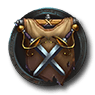
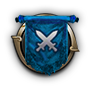
harvist and ui

diff --git a/mytank/src/com/trance/tranceview/screens/MapScreen.java b/mytank/src/com/trance/tranceview/screens/MapScreen.java
@@ -18,6 +18,7 @@ import com.badlogic.gdx.graphics.Texture;
 import com.badlogic.gdx.graphics.g2d.BitmapFont;
 import com.badlogic.gdx.graphics.g2d.SpriteBatch;
 import com.badlogic.gdx.graphics.glutils.ShapeRenderer;
+import com.badlogic.gdx.input.GestureDetector;
 import com.badlogic.gdx.math.Vector3;
 import com.badlogic.gdx.scenes.scene2d.Actor;
 import com.badlogic.gdx.scenes.scene2d.InputEvent;
@@ -34,7 +35,9 @@ import com.trance.trancetank.config.Module;
 import com.trance.trancetank.model.Result;
 import com.trance.trancetank.modules.army.model.ArmyDto;
 import com.trance.trancetank.modules.battle.handler.BattleCmd;
+import com.trance.trancetank.modules.building.handler.BuildingCmd;
 import com.trance.trancetank.modules.building.model.BuildingDto;
+import com.trance.trancetank.modules.building.model.BuildingType;
 import com.trance.trancetank.modules.mapdata.handler.MapDataCmd;
 import com.trance.trancetank.modules.player.model.PlayerDto;
 import com.trance.trancetank.modules.reward.result.ValueResultSet;
@@ -47,6 +50,7 @@ import com.trance.tranceview.actors.MapImage;
 import com.trance.tranceview.actors.ResImage;
 import com.trance.tranceview.constant.ControlType;
 import com.trance.tranceview.constant.UiType;
+import com.trance.tranceview.controller.GestureController;
 import com.trance.tranceview.dialog.DialogArmyStage;
 import com.trance.tranceview.dialog.DialogBuildingStage;
 import com.trance.tranceview.mapdata.MapData;
@@ -94,10 +98,8 @@ public class MapScreen implements Screen ,InputProcessor{
 	private PlayerDto playerDto;
 	private OrthographicCamera camera;
 	private Image bg;
-//	private GestureController controller;
+	private GestureController controller;
 	
-//	private ConcurrentMap<Integer,BuildingDto> buildings = new ConcurrentHashMap<Integer,BuildingDto>();
-//	private ConcurrentMap<Integer,CoolQueueDto> coolQueues = new ConcurrentHashMap<Integer,CoolQueueDto>();
 	public ShapeRenderer shapeRenderer;
 	
 	private InputMultiplexer inputMultiplexer;
@@ -165,7 +167,7 @@ public class MapScreen implements Screen ,InputProcessor{
 			}
 		});
 		
-		toUpBuilding = new Image(ResUtil.getInstance().getUi(UiType.TRAIN));
+		toUpBuilding = new Image(ResUtil.getInstance().getUi(UiType.UPBUILDING));
 		toUpBuilding.setBounds(side * 3, 0, side, side);
 		toUpBuilding.addListener(new ClickListener(){
 			
@@ -195,10 +197,6 @@ public class MapScreen implements Screen ,InputProcessor{
 				attack();
 			}
 		});
-		
-		
-//		coolQueues = playerDto.getCoolQueues();
-//		buildings = playerDto.getBuildings();
 	}
 	
 	public void setPlayerDto(PlayerDto playerDto){
@@ -220,7 +218,7 @@ public class MapScreen implements Screen ,InputProcessor{
 		float w = bg.getWidth();
 		float h = bg.getHeight();
 		for(float x = -w ; x < stage.getWidth(); x += w){//background;
-			for(float y = -h ; y < stage.getHeight() ; y += h){
+			for(float y = -h * 5 ; y < stage.getHeight()  + h* 5; y += h){
 				bg = new MapImage(ResUtil.getInstance().get("world/bg.jpg",Texture.class));
 				bg.setPosition(x, y);
 				stage.addActor(bg);
@@ -248,14 +246,15 @@ public class MapScreen implements Screen ,InputProcessor{
 			stage.addActor(attack);
 		}
 		initPlayerInfo();
-		
 		stage.addActor(toWorld);
+		initHarvist();
 		
 		inputMultiplexer = new InputMultiplexer(); 
-//		controller = new GestureController(camera, 0, width * 2, 0, height * 2);
-//		camera.position.set(width/2, height/2, 0);
-//		GestureDetector gestureHandler = new GestureDetector(controller);
-//		inputMultiplexer.addProcessor(gestureHandler);
+		controller = new GestureController(camera, 0, width * 2, 0, height * 2);
+		camera.position.set(width/2, height/2, 0);
+		controller.setCanPan(false);
+		GestureDetector gestureHandler = new GestureDetector(controller);
+		inputMultiplexer.addProcessor(gestureHandler);
 		inputMultiplexer.addProcessor(stage);
 		inputMultiplexer.addProcessor(this);
 		Gdx.input.setInputProcessor(inputMultiplexer);
@@ -416,6 +415,56 @@ public class MapScreen implements Screen ,InputProcessor{
 			inputMultiplexer.addProcessor(stage);
 			inputMultiplexer.addProcessor(this);
 			inputMultiplexer.removeProcessor(dialogBuildingStage);
+		}
+	}
+	
+	private void initHarvist(){
+		addHarvist(BuildingType.HOUSE, 0);
+		addHarvist(BuildingType.BARRACKS, 1);
+	}
+	
+	private void addHarvist(final int buildingId, int index){
+		float side = width / 10;
+		BuildingDto dto = MainActivity.player.getBuildings().get(buildingId);
+		Building buiding = Building.buildingPool.obtain();
+		float x = index * side + length + width/2;
+		float y = control_height - (length * 2 +  length * 2 );
+		buiding.init(null,dto.getId(), x, y, length,length,null, font, dto);
+		stage.addActor(buiding);
+		buiding.addListener( new ClickListener(){
+
+			@Override
+			public void clicked(InputEvent event, float x, float y) {
+				harvist(buildingId);
+			}
+		});
+	}
+	
+	/**
+	 * harvist
+	 * @param buildingId
+	 */
+	private void harvist(int buildingId){
+		Response response = SocketUtil.send(Request.valueOf(Module.BUILDING, BuildingCmd.HARVIST, buildingId),true);
+		if(response == null || response.getStatus() != ResponseStatus.SUCCESS){
+			return;
+		}
+		
+		byte[] bytes = response.getValueBytes();
+		String text = new String(bytes);
+		@SuppressWarnings("unchecked")
+		HashMap<String,Object> result = JSON.parseObject(text, HashMap.class);
+		if(result != null){
+			int code = Integer.valueOf(String.valueOf(result.get("result")));
+			if(code != Result.SUCCESS){
+				MsgUtil.showMsg(Module.BUILDING,code);
+				return ;
+			}
+			Object valueResult = result.get("content");
+			if(valueResult != null){
+				ValueResultSet valueResultSet = JSON.parseObject(JSON.toJSON(valueResult).toString(), ValueResultSet.class);
+				RewardService.executeRewards(valueResultSet);
+			}
 		}
 	}
 	

diff --git a/mytank/src/com/trance/tranceview/actors/Building.java b/mytank/src/com/trance/tranceview/actors/Building.java
@@ -84,22 +84,8 @@ public class Building extends GameActor{
 		case BuildingType.OFFICE:
 			break;
 		case BuildingType.HOUSE:
-			this.addListener(new ClickListener(){
-
-				@Override
-				public void clicked(InputEvent event, float x, float y) {
-					harvist(type);
-				}
-			});
 			break;
 		case BuildingType.BARRACKS:
-			this.addListener(new ClickListener(){
-
-				@Override
-				public void clicked(InputEvent event, float x, float y) {
-					harvist(type);
-				}
-			});
 			break;
 		case BuildingType.CANNON:
 			range = 400;
@@ -107,7 +93,7 @@ public class Building extends GameActor{
 			atk = 20;
 			break;
 		case BuildingType.ROCKET:
-			range = 800;
+			range = 600;
 			fireDelay = 1500;
 			atk = 2;
 			break;
@@ -133,34 +119,6 @@ public class Building extends GameActor{
 		body = WorldUtils.createBlock(world, x, y, width, height);
 		body.setUserData(this);
 		
-	}
-	
-	/**
-	 * harvist
-	 * @param buildingId
-	 */
-	private void harvist(int buildingId){
-		Response response = SocketUtil.send(Request.valueOf(Module.BUILDING, BuildingCmd.HARVIST, buildingId),true);
-		if(response == null || response.getStatus() != ResponseStatus.SUCCESS){
-			return;
-		}
-		
-		byte[] bytes = response.getValueBytes();
-		String text = new String(bytes);
-		@SuppressWarnings("unchecked")
-		HashMap<String,Object> result = JSON.parseObject(text, HashMap.class);
-		if(result != null){
-			int code = Integer.valueOf(String.valueOf(result.get("result")));
-			if(code != Result.SUCCESS){
-				MsgUtil.showMsg(Module.BUILDING,code);
-				return ;
-			}
-			Object valueResult = result.get("content");
-			if(valueResult != null){
-				ValueResultSet valueResultSet = JSON.parseObject(JSON.toJSON(valueResult).toString(), ValueResultSet.class);
-				RewardService.executeRewards(valueResultSet);
-			}
-		}
 	}
 	
 	public void init(World world, int type, float x , float y,float width,float height,ShapeRenderer renderer, BitmapFont font, BuildingDto dto){
@@ -191,15 +149,23 @@ public class Building extends GameActor{
 		body.setLinearVelocity(vx * speed, vy * speed);
 	}
 	
-	private long faceDelay = 2000;
+//	private long faceDelay = 3000;
+	
+	private float tmpRotation = RandomUtil.nextInt(360) ;
+	private boolean flag = RandomUtil.nextBoolean();
 	private long faceTime;
 	private void randomDir(){
+		setRotation(tmpRotation);
 		long now = System.currentTimeMillis();
-		if((now - faceTime) < faceDelay){
+		if((now - faceTime) < RandomUtil.betweenValue(50, 100)){
 			return;
 		}
 		faceTime = now;
-		setRotation(RandomUtil.nextInt(360));
+		if(flag){
+			tmpRotation ++;
+		}else{
+			tmpRotation --;
+		}
 	}
 	
 	
@@ -265,10 +231,6 @@ public class Building extends GameActor{
 			renderer.end();
 			batch.begin();
 		}
-
-		if(!firing && type > 3 && type < 9){
-			randomDir();
-		}
 		
 		if(!MapData.gamerunning){
 			return;
@@ -279,6 +241,10 @@ public class Building extends GameActor{
 		
 		if(move){
 			move();
+		}
+		
+		if(!firing && type > 3 && type < 9){
+			randomDir();
 		}
 		
 	}

diff --git a/mytank/src/com/trance/tranceview/controller/GestureController.java b/mytank/src/com/trance/tranceview/controller/GestureController.java
@@ -14,7 +14,8 @@ public class GestureController extends GestureAdapter implements GestureListener
 	private float rightX;
 	private float donwY;
 	private float upY;
-	private boolean canUpdate = true;
+	private boolean canZoom = true;
+	private boolean canPan = true;
 
 	public GestureController(OrthographicCamera camera, float leftX, float rightX, float donwY,float upY) {
 		this.camera = camera;
@@ -32,7 +33,7 @@ public class GestureController extends GestureAdapter implements GestureListener
 	
 	@Override
 	public boolean pan(float x, float y, float deltaX, float deltaY) {
-		if(!canUpdate){
+		if(!canPan){
 			return false;
 		}
 		float cx = camera.position.x ;
@@ -63,7 +64,7 @@ public class GestureController extends GestureAdapter implements GestureListener
 
 	@Override
 	public boolean zoom(float initialDistance, float distance) {
-		if(!canUpdate){
+		if(!canZoom){
 			return false;
 		}
 		// 与pinch对应，也是是一个多点触摸的手势，并且两个手指做出放大的动作
@@ -76,12 +77,20 @@ public class GestureController extends GestureAdapter implements GestureListener
 		return false;
 	}
 
-	public boolean isCanUpdate() {
-		return canUpdate;
+	public boolean isCanZoom() {
+		return canZoom;
 	}
 
-	public void setCanUpdate(boolean canUpdate) {
-		this.canUpdate = canUpdate;
+	public void setCanZoom(boolean canZoom) {
+		this.canZoom = canZoom;
+	}
+
+	public boolean isCanPan() {
+		return canPan;
+	}
+
+	public void setCanPan(boolean canPan) {
+		this.canPan = canPan;
 	}
 	
 }

diff --git a/mytank/src/com/trance/tranceview/utils/ResUtil.java b/mytank/src/com/trance/tranceview/utils/ResUtil.java
@@ -68,10 +68,10 @@ public class ResUtil extends AssetManager{
        	load("ui/blank.png", Texture.class);
        	load("ui/close.png", Texture.class);
        	load("ui/levelup.png", Texture.class);
+       	load("ui/upbuilding.png", Texture.class);
     	
     	load("world/me1.png", Texture.class);
     	load("world/tips.png", Texture.class);
-    	load("world/f-28.png", Texture.class);
     	load("world/bg.jpg", Texture.class);
     	
     	load("world/tree1.png", Texture.class);

diff --git a/mytank/src/com/trance/tranceview/net/ClientServiceImpl.java b/mytank/src/com/trance/tranceview/net/ClientServiceImpl.java
@@ -31,8 +31,8 @@ public class ClientServiceImpl implements ClientService{
 	 * 远程主机ip
 	 */
 //	private String ip = "112.74.30.92";
-	private String ip = "192.168.0.4";
-//	private String ip = "192.168.0.105";
+//	private String ip = "192.168.0.4";
+	private String ip = "192.168.0.102";
 	
 	/**
 	 * 远程主机端口号

diff --git a/mytank/src/com/trance/tranceview/utils/SocketUtil.java b/mytank/src/com/trance/tranceview/utils/SocketUtil.java
@@ -43,7 +43,7 @@ public class SocketUtil {
 	}
 	
 	public static Response send(Request request, boolean showDialog) {
-		return send(request, false, true);
+		return send(request, showDialog, true);
 	}
 	
 	/**

diff --git a/mytank/src/com/trance/tranceview/constant/UiType.java b/mytank/src/com/trance/tranceview/constant/UiType.java
@@ -12,6 +12,7 @@ public enum UiType {
 	BLANK("ui/blank.png"),
 	CLOSE("ui/close.png"),
 	LEVELUP("ui/levelup.png"),
+	UPBUILDING("ui/upbuilding.png"),
 	;
 	
 	private final String value;
